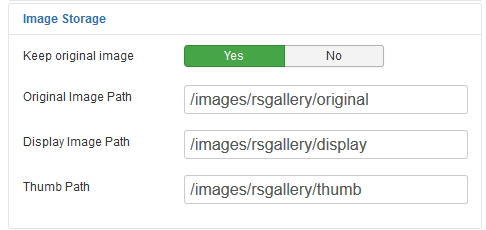
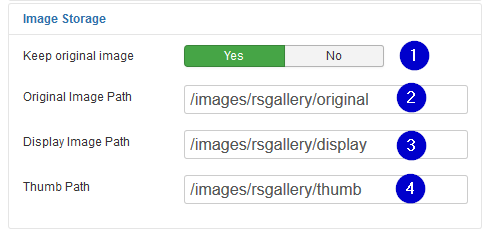
Added information on hiding orignal image

diff --git a/Documentation/General/HowToHideImages.md b/Documentation/General/HowToHideImages.md
@@ -1,37 +1,76 @@
 ## How to hide the original image from the user
-   > Hide original and show watermarked file instead
-
 #### Intention:
 You want to show your images to the customers but the customer shouldn't be able to download in original resolution.
 The RSGallery2 supports this with some small drawbacks.
 
-Every image that is shown the user can download with the browser which is not what you want.
+We can't avoid that every image that is shown in the browser the user can download which is not what you want.
+
+#### Solutions:
+* Prevent showing the original image on double click on the image
+* Automatic remove the original size image file after upload
+* Display a watermarked file instead of the original image
 
 #### Display types in RSGallery2
 
 * "Thumbs": Shown in gallery overview ==> No need for watermarking
 * "Display": Single image view in slideshow and similar views ==> Expected to be resized into lesser quality and therefore no watermark.
-* "Original": A double click on a "display" image leads to a full screen "lightbox" image. Here the watermarked image will be shown instead of the original
+* "Original": A double click on a "display" image leads to a full screen "lightbox" image of the original file.
 
-### Solution inside RSGallery2:
+### Solution "Popup style to none":
 
-1) **Resized** display image (to bad quality)
-On upload the original image is resized to display size defined in configuration.
-This reduces "interest" of your user to download with this bad quality
+Configuration -> Tab "display" -> section "Image display"
+![Image manipulation](https://github.com/RSGallery2/RSGallery2_Project/blob/master/Documentation/Images/config.display.imageDisplay.png?raw=true)
 
-2) **Discard** original image
-RSGallery2 can be setup to discard the original image and display a watermarked image instead. So the user can't find the original by guessing the filename URL and download it.
+* (2) Popup style
+  Defines the method ("No popup", "Normal popup", "Joomla Modal") used for displaying a popup (big image) after a click of the image in single image display.
 
-3) **Watermark**
-A watermarked replacement file will be created once when uploading or when viewed the first time.
-The watermarking will be a text defined in the configuration.  
-Optional: Add icon or other image as watermark. (This has to be developed. It can be done in short time. Send us an email if you need it and we will care for it)
+  Possible selections:<br>
+  * "No popup": A click on the image does not open a popup or display the "original" image in a separate window<br>
+  * "Normal popup": After click on the image the original image is displayed in a separate browser window style<br>
+  * "Joomla Modal": After click on the image a popup in a modal style with [x] to close appear in front of the small image screen
+  <br><br>
 
-3) **Disguise** watermarked file names
-Additional the created watermarked files are disguised with a different filename.
-So users can't immediately guess the URL of the next or previous image. So it is harder to download all your images and remove the watermark with an imaging application
+  Choose "No popup" to avoid the download of the original size image. Then the user will only see the small sized "display" image.
 
-### Setup configuration:
+  ##### Drawback
+  * The "original" files can be found and opened in the browser with guessing if a knowledge of the RSGallery2 / Joomla structure exists.<br>
+    This can be disguised using a different folder for originals (see configuration image below)
+
+### Solution "Automatic remove the original size image file":
+
+Configuration -> Tab "Image" -> section "Image Storage"     
+![Image manipulation](https://github.com/RSGallery2/RSGallery2_Project/blob/master/Documentation/Images/config.image.storage.png?raw=true)
+
+* (1) Keep original image Yes / No
+
+  On "yes" the original image will be deleted after the upload process for server space or hiding purposes. On a double click of the display sized image the same image (size) appears then in the popup
+
+  ##### Drawback:
+  Watermark images not created on upload will use the smaller size "display" image to be build when the user opens the 2original" view"
+
+
+### Solution "Watermarked files":
+
+   1) **Resized** display image (to bad quality)
+   On upload the original image it is resized to display size defined in configuration.
+   This reduces "interest" of your user to download with this bad quality
+
+   2) **Watermark**
+   A watermarked replacement file will be created once when uploading or when viewed the first time.
+   The watermarking will be a text defined in the configuration.  
+   Optional: Add icon or other image as watermark. (This has to be developed. It can be done in short time. Send us an email if you need it and we will care for it)
+
+   3) **Disguise** watermarked file names
+   Additional the created watermarked files are disguised with a different filename.
+   So users can't immediately guess the URL of the next or previous image. So it is harder to download all your images and remove the watermark with an imaging application
+
+   ##### Drawbacks
+   * The small sized "display" files have no watermark
+   * The "display" files can be found with guessing and a knowledge of the RSGallery2 / Joomla structure
+   * If you switch on watermarking after uploading the images then the watermarking tries to use the original image. If it doesn't exist then it uses the "display" files with lower resolution.
+   
+
+#### Setup watermarked configuration:
 
 1. Hide (delete) original after upload
 
@@ -83,9 +122,3 @@ So users can't immediately guess the URL of the next or previous image. So it is
      Define transparency of the text to be displayed in the image  
  * (15) Watermark image path  
      Define the destination path of the created watermarked files  
-
-
-### Drawbacks
-* The small sized "display" files have no watermark
-* The "display" files can be found with guessing and a knowledge of the RSGallery2 / Joomla structure
-* If you switch on watermarking after uploading the images then the watermarking tries to use the original image. If it doesn't exist then it uses the "display" files with lower resolution.

diff --git a/Documentation/Config/config.md b/Documentation/Config/config.md
@@ -146,12 +146,14 @@
 
 * (1) Keep original image Yes No
 
-  The original image may be deleted after the upload process for server space or hiding purposes.  
-  With an additional created watermarked image (See below) a user may  see the "display" image in a valid quality (resolution) but can't retrieve the original without the watermark
+  On "yes" the original image will be deleted after the upload process for server space or hiding purposes. On a double click of the display sized image the same image (size) appears then in the popup
+
+  Drawback: watermark images not created on upload will use the smaller size "display" image to be build when the user opens the 2original" view"
 
 * (2) Original Image Path
 
-  .
+  Select any folder within the Joomla reachable folder system.
+  You may choose a different folder when you don't show the original images by setting the "Popup style to none" in Configuration -> Tab "display" -> section "Image display". This makes it harder for any user to guess the origin folder to download the original image with big size and good quality .
 
 * (3) Display Image Path
 
@@ -161,6 +163,11 @@
 
   .
 
+##### Future folder structure (2018.07.22)
+
+Actually all images of a certain type are kept in one folder. This limits its use as the amount of files per folder is limited. It may limited to 60000 files on older systems and on around 4 Gbyte files on newer. Anyhow the system catches performance issues after too many files in one.
+
+The development team aims for folder per gallery so other slideshows may benefit from this too.
 
 ---
 #### Images: Comments
@@ -299,8 +306,8 @@
   Defines the method ("No popup", "Normal popup", "Joomla Modal") used for displaying a popup (big image) after a click of the image in single image display.
 
   "No popup": A click on the image does not open a popup<br>
-  "Normal popup": After click on the image a popup in ... style<br>
-  "Joomla Modal": After click on the image a popup in ... style<br>
+  "Normal popup": After click on the image the original image is displayed in a separate browser window style<br>
+  "Joomla Modal": After click on the image a popup in a modal style with [x] to close appear in front of the small image screen
 
 * (3) Display Description Yes No
 
